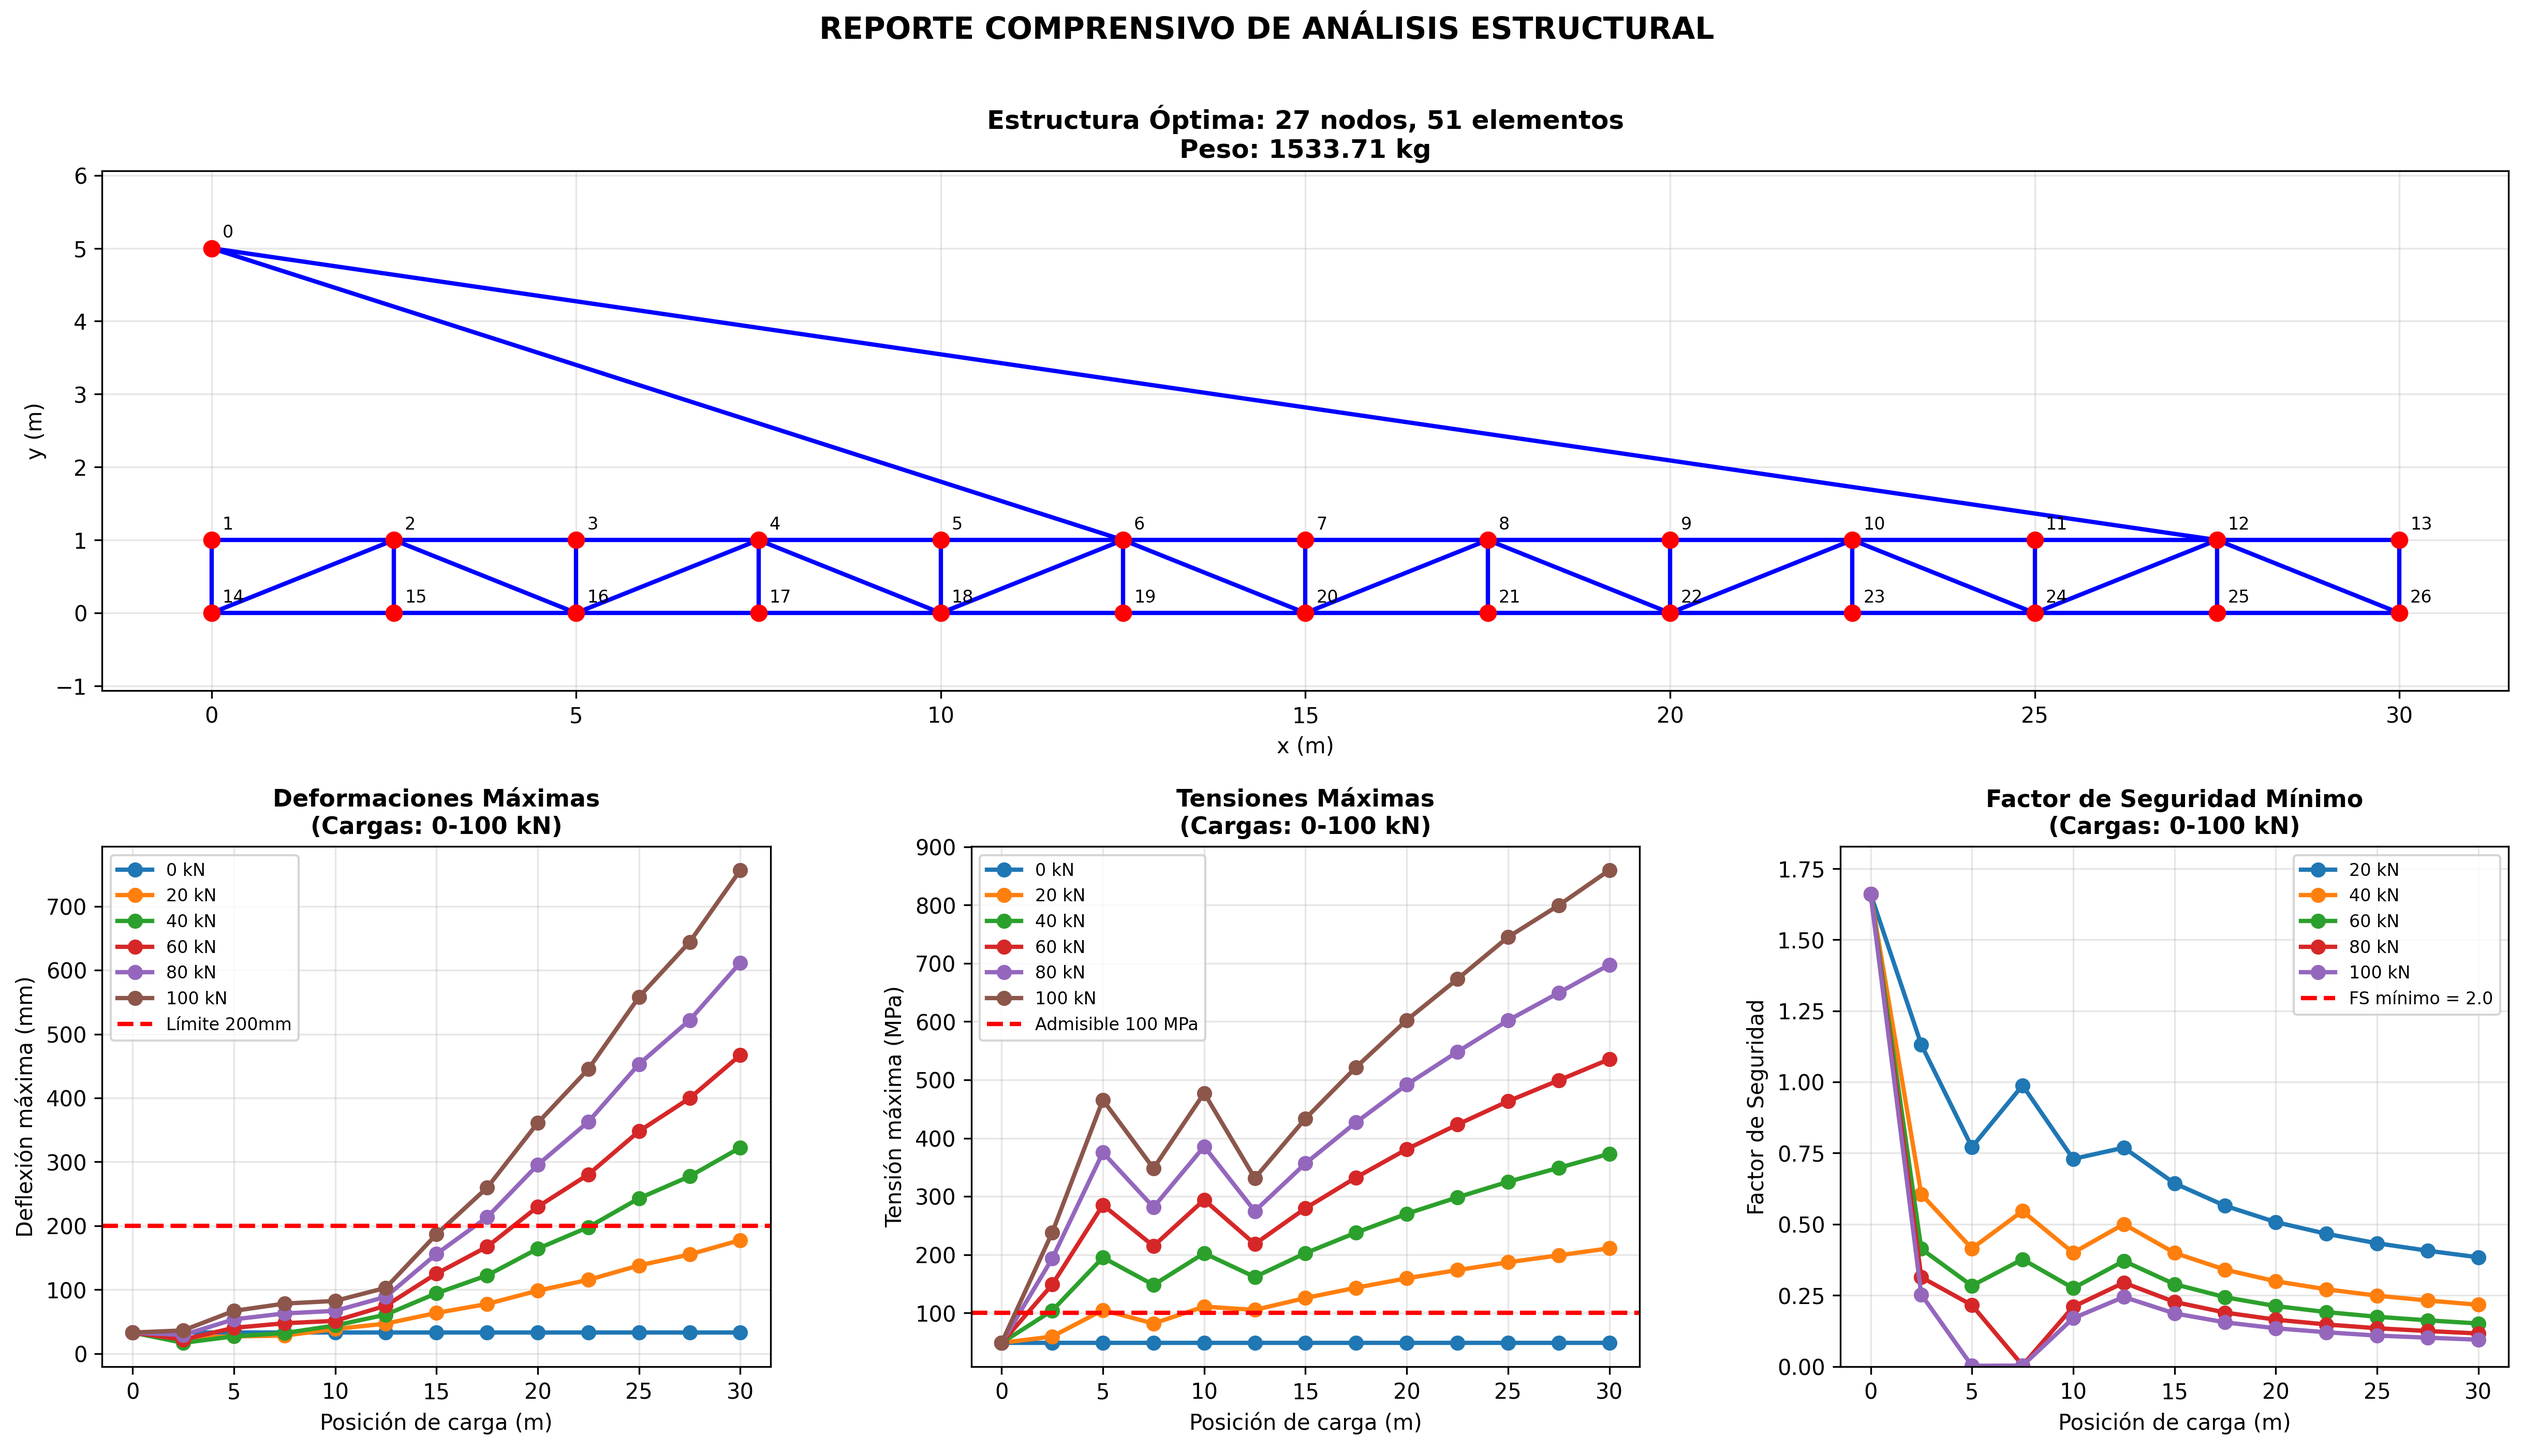
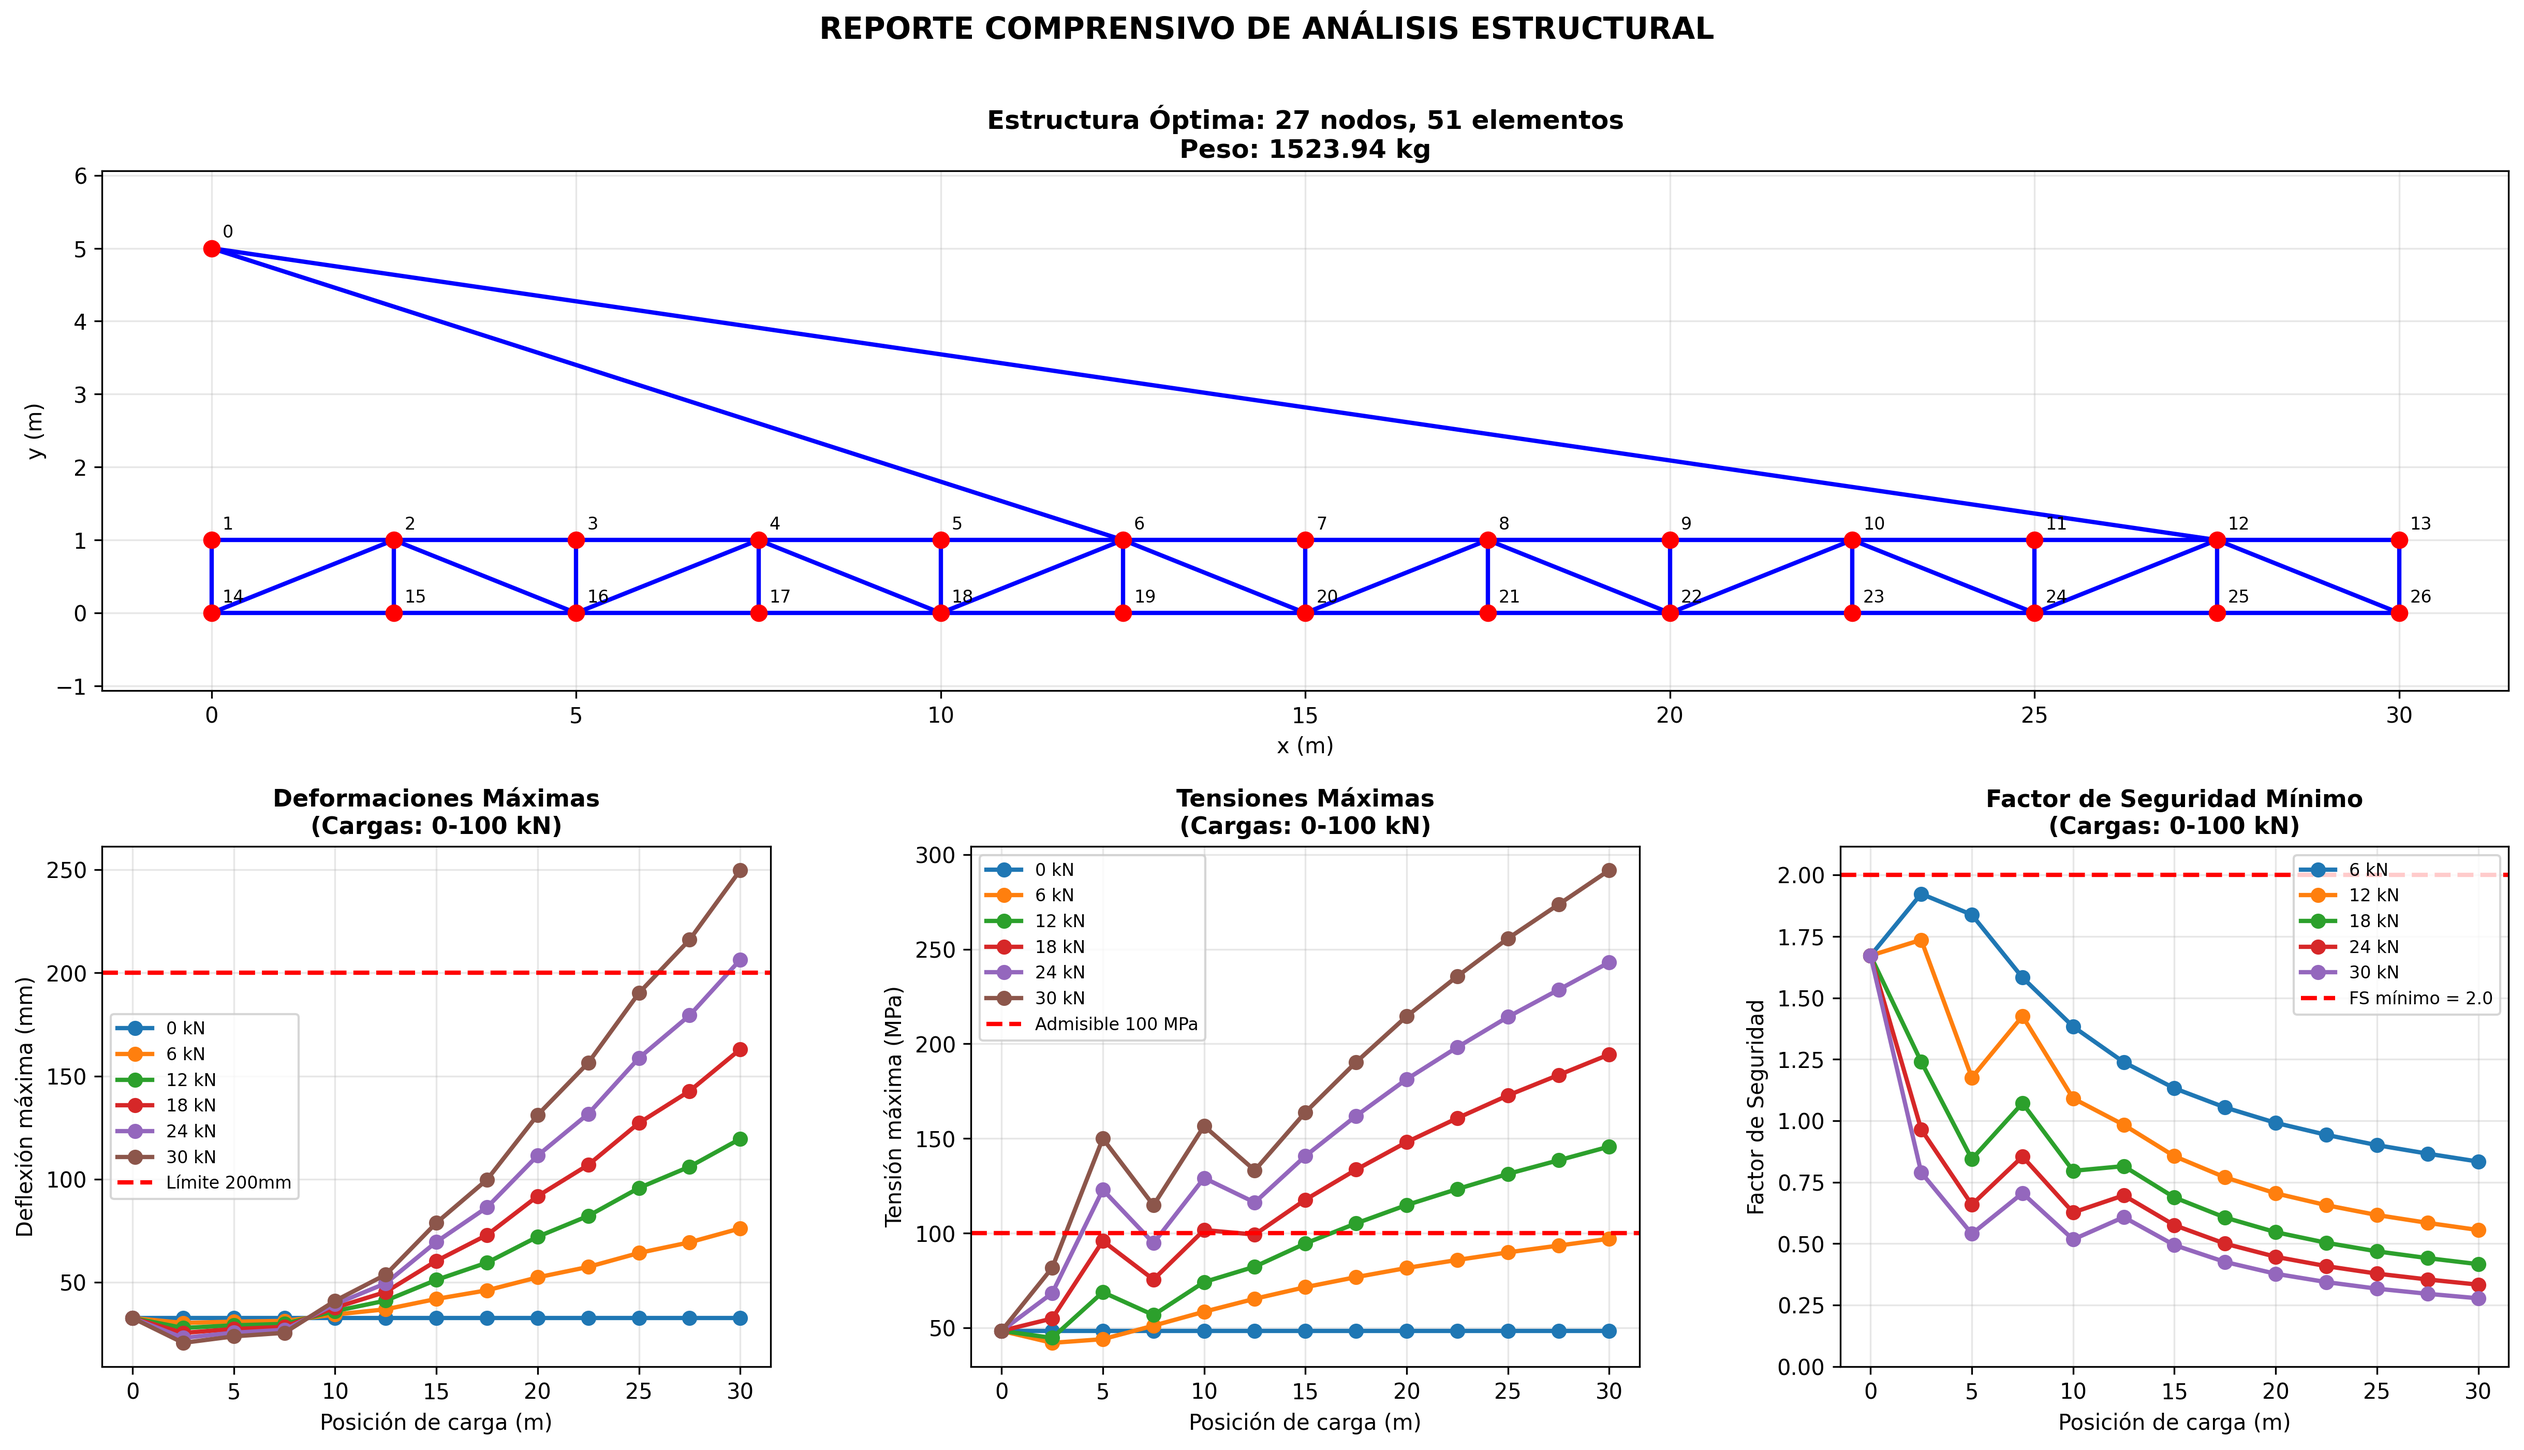
con bestcrane

diff --git a/grua_analizador.py b/grua_analizador.py
@@ -97,7 +97,7 @@ def run_crane_analysis(crane_pkl_file):
 
     # Propiedades del material
     E = 200e9
-    rho_steel = 7850
+    rho_steel = 7800  # kg/m³ (consigna TP2)
     g = 9.81
 
     # Condiciones de borde
@@ -172,7 +172,7 @@ def analyze_moving_load_internal(crane_data, load_magnitudes=None):
 
     # Propiedades del material
     E = 200e9
-    rho_steel = 7850
+    rho_steel = 7800  # kg/m³ (consigna TP2)
     g = 9.81
 
     # Construir áreas de elementos desde parámetros de espesor
@@ -252,6 +252,66 @@ def analyze_moving_load_internal(crane_data, load_magnitudes=None):
 
     return max_deflections, max_stresses, positions_x
 
+
+def generate_complete_report(crane_pkl_file, load_range=(0, 30000)):
+    '''
+    Generar reporte completo de la estructura optimizada con todos los gráficos y tablas
+
+    Parámetros:
+    -----------
+    crane_pkl_file : str or Path
+        Ruta al archivo .pkl del diseño de grúa optimizado
+    load_range : tuple
+        Rango de cargas a analizar (min, max) en Newtons (default: 0 a 30 kN)
+
+    Retorna:
+    --------
+    report_dict : dict
+        Diccionario con todos los resultados del análisis
+    '''
+    # Cargar diseño de grúa optimizado
+    crane_data = load_crane(crane_pkl_file)
+
+    # Extraer datos
+    X = crane_data['X']
+    C = crane_data['C']
+    tower_base = crane_data['tower_base']
+    boom_top_nodes = crane_data['boom_top_nodes']
+    boom_bot_nodes = crane_data['boom_bot_nodes']
+    thickness_params = crane_data['thickness_params']
+
+    # Propiedades de material y sección
+    E = 200e9  # Módulo de Young del acero (Pa)
+    rho_steel = 7800  # kg/m³ (según consigna TP2)
+    g = 9.81  # m/s²
+
+    # Construir listas de áreas e inercias de elementos desde thickness_params
+    element_areas = []
+    element_inertias = []
+
+    for iEl in range(C.shape[0]):
+        d_outer = thickness_params[2*iEl]
+        d_inner = thickness_params[2*iEl + 1]
+
+        # Asegurar dimensiones válidas
+        min_wall = 0.002
+        if d_inner >= d_outer - min_wall:
+            d_inner = d_outer - min_wall
+        if d_inner < 0.001:
+            d_inner = 0.001
+
+        A, I = hollow_circular_section(d_outer, d_inner)
+        element_areas.append(A)
+        element_inertias.append(I)
+
+    # Generar reporte comprensivo usando la función de plotting_utils
+    report_dict = generate_comprehensive_report(
+        X, C, element_areas, element_inertias,
+        boom_top_nodes, boom_bot_nodes, tower_base,
+        E, rho_steel, g, load_range
+    )
+
+    return report_dict
 
 
 if __name__ == '__main__':

diff --git a/grua_optimizador.py b/grua_optimizador.py
@@ -403,9 +403,9 @@ def evaluate_crane_design(design_vector, max_load=40000, verbose=False):
     # Extraer espesores de miembros
     thickness_params = design_vector[6:6+expected_thickness_params]
 
-    # Propiedades del material
+    # Propiedades del material (según consigna TP2)
     E = 200e9
-    rho_steel = 7850
+    rho_steel = 7800  # kg/m³ (consigna TP2)
     g = 9.81
 
     # Construir áreas e inercias de elementos
@@ -484,7 +484,7 @@ def evaluate_crane_design(design_vector, max_load=40000, verbose=False):
 
     # Calcular factores de seguridad
     sigma_max = np.max(np.abs(element_stresses))
-    sigma_adm = 100e6  # 100 MPa
+    sigma_adm = 250e6  # 250 MPa (según consigna TP2)
 
     if sigma_max < 1e-6:
         FS_tension = 1000
@@ -589,18 +589,6 @@ def optimize_crane(maxiter=100, popsize=15):
     iteration_counter = 0
     best_objective = float('inf')
 
-    print("="*80)
-    print("GRÚA AUTO-OPTIMIZANTE (GRUITA 3)")
-    print("="*80)
-    print("\nLa grúa se diseñará a sí misma optimizando:")
-    print("  1. Número de segmentos (distribución de nodos)")
-    print("  2. Altura del brazo (profundidad de cercha)")
-    print("  3. Patrón de conectividad (diagonales, verticales, cables de soporte)")
-    print("  4. Espesores individuales de miembros (cada elemento optimizado)")
-    print("\nObjetivo: Minimizar costo manteniendo FS >= 2.0")
-    print("\nLos gráficos se guardarán SOLO cuando se encuentre un mejor diseño!")
-    print("="*80)
-
     # Comenzar con una línea base razonable para estimar cantidad de elementos
     baseline_segments = 12
     baseline_height = 1.0
@@ -618,7 +606,7 @@ def optimize_crane(maxiter=100, popsize=15):
 
     bounds = [
         (8, 20),      # n_segments
-        (0.5, 2.0),   # boom_height
+        (0.1, 1.0),   # boom_height
         (0, 10),      # diag_type (ahora 0-10 incluyendo conectividad completa)
         (1, 3),       # vertical_spacing
         (1, 3),       # num_support_cables

diff --git a/grua_base.py b/grua_base.py
@@ -365,7 +365,7 @@ def analyze_moving_load():
 
             # Calcular peso propio basado en masa del elemento: Peso = ρ × V × g
             # Distribuir el peso de cada elemento equitativamente a sus dos nodos
-            rho_steel = 7850  # kg/m³ - densidad del acero
+            rho_steel = 7800  # kg/m³ - densidad del acero (según consigna TP2)
             g = 9.81  # m/s² - aceleración gravitacional
 
             for iEl in range(C.shape[0]):
@@ -501,7 +501,7 @@ def animate_moving_load(load_magnitude=30000, scale_factor=1, interval=200):
 
         # Calcular peso propio correctamente basado en masa del elemento
         # Distribuir el peso de cada elemento equitativamente a sus dos nodos
-        rho_steel = 7850  # kg/m³
+        rho_steel = 7800  # kg/m³ (según consigna TP2)
         g = 9.81  # m/s²
 
         for iEl in range(C.shape[0]):
@@ -609,14 +609,14 @@ def animate_moving_load(load_magnitude=30000, scale_factor=1, interval=200):
 
     return anim
 
-def generate_complete_report(load_range=(0, 100000)):
+def generate_complete_report(load_range=(0, 30000)):
     '''
     Generar reporte completo de la estructura con todos los gráficos y tablas
 
     Parámetros:
     -----------
     load_range : tuple
-        Rango de cargas a analizar (min, max) en Newtons (default: 0 a 100 kN)
+        Rango de cargas a analizar (min, max) en Newtons (default: 0 a 30 kN)
 
     Retorna:
     --------
@@ -629,7 +629,7 @@ def generate_complete_report(load_range=(0, 100000)):
 
     # Propiedades de material y sección
     E = 200e9  # Módulo de Young del acero (Pa)
-    rho_steel = 7850  # kg/m³
+    rho_steel = 7800  # kg/m³ (según consigna TP2)
     g = 9.81  # m/s²
 
     # Especificaciones de sección transversal circular hueca (en metros)

diff --git a/analysis_utils.py b/analysis_utils.py
@@ -1,9 +1,3 @@
-"""
-Utilidades de Análisis Estructural
-===================================
-Funciones para análisis de costos, factores de seguridad y masas de estructuras.
-"""
-
 import numpy as np
 from fem_utils import hollow_circular_section
 
